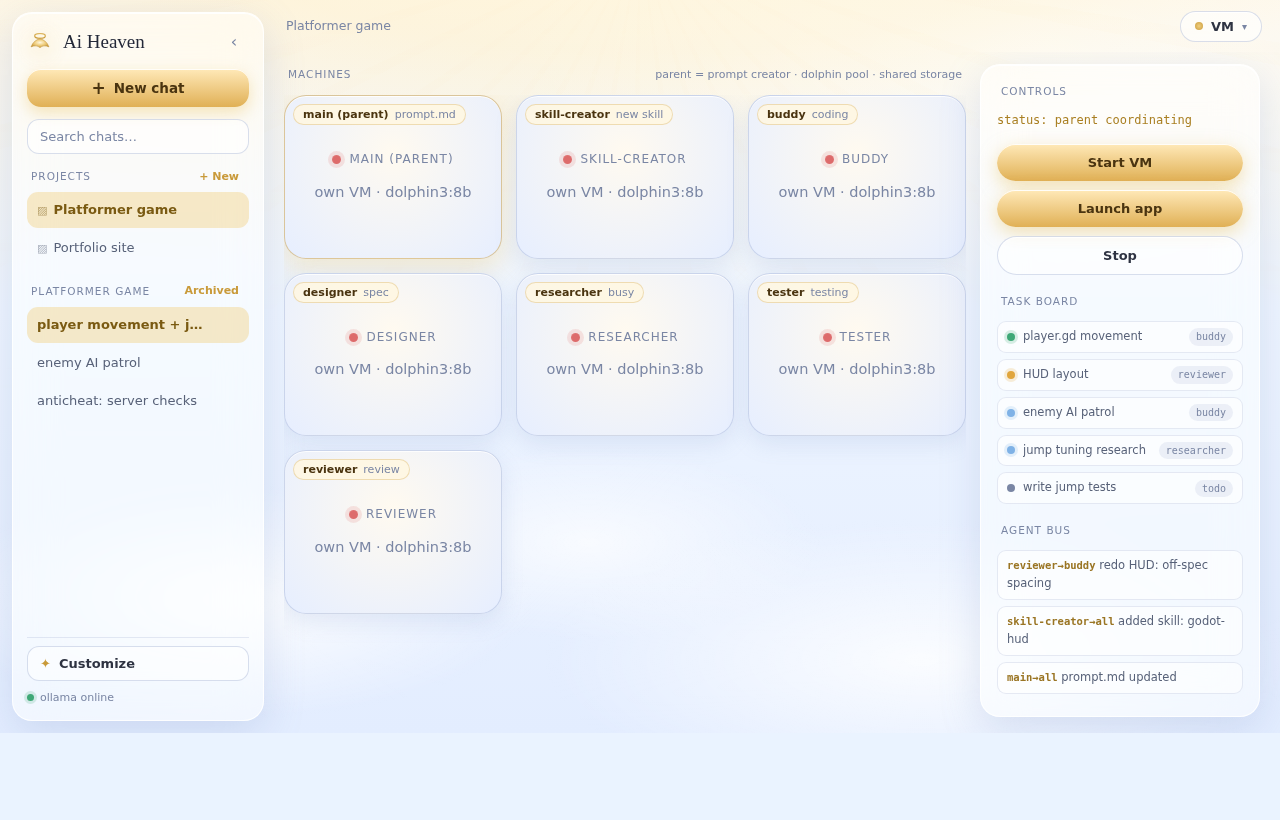
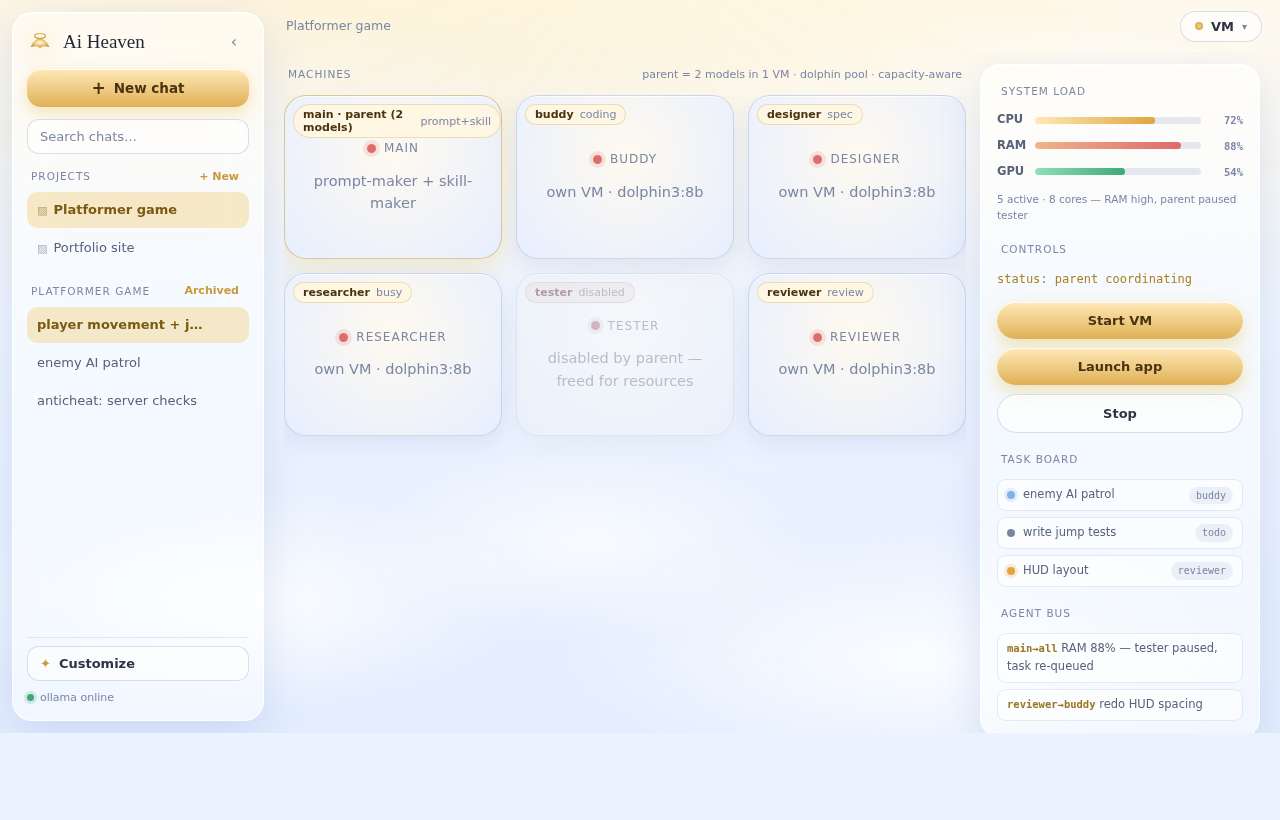
Parent = 2 models in one VM (prompt+skill), capacity-aware agent scaling
- fold skill-maker into the parent; parent creates prompts (prompt.md) and skills (create_skill)
- system_load via psutil + nvidia-smi; get_system_load tool + /api/system
- parent can disable_agent/enable_agent to protect the PC; disabling auto-requeues that agent's task for another; spawn refuses disabled agents
- VM tab shows CPU/RAM/GPU meters and greys out disabled machines
- requirements: psutil

Claude-Session: https://claude.ai/code/session_01Nmj5f1gTeksDM4vgX8VzVx

diff --git a/static/app.js b/static/app.js
@@ -372,23 +372,38 @@ async function loadVM() {
         <span class="tk-who">${esc(x.assignee || x.status)}</span></li>`).join("")
       || `<li class="empty-note">no tasks</li>`; } catch {}
 }
-function screenCard(name, stream, status, primary) {
+function screenCard(name, stream, status, primary, enabled = true) {
+  const label = primary ? name + " · parent (2 models)" : name;
+  const off = enabled ? "" : " off";
   const body = stream
     ? `<img src="${esc(stream)}" alt="">`
     : `<div class="vm-overlay"><span class="vm-live"><i></i>${esc(name)}</span>
-         <p>${primary ? "Set VM_STREAM to your VM's VNC / MJPEG feed." : "no stream — add one in Customize → Subagents"}</p></div>`;
-  return `<div class="vm-screen ${primary ? "primary" : ""}">
-      <div class="vm-tag">${esc(name)}${primary ? " · main" : ""} <span class="vm-st">${esc(status || "")}</span></div>${body}</div>`;
+         <p>${!enabled ? "disabled by parent — freed for resources"
+            : primary ? "Set VM_STREAM to your VM's VNC / MJPEG feed."
+            : "no stream — add one in Customize → Subagents"}</p></div>`;
+  return `<div class="vm-screen ${primary ? "primary" : ""}${off}">
+      <div class="vm-tag">${esc(label)} <span class="vm-st">${esc(status || "")}</span></div>${body}</div>`;
+}
+function meter(label, v) {
+  if (v === null || v === undefined) return `<div class="mtr"><span>${label}</span><b>n/a</b></div>`;
+  const cls = v > 85 ? "hot" : v > 60 ? "warm" : "";
+  return `<div class="mtr ${cls}"><span>${label}</span>
+    <div class="mtr-bar"><i style="width:${Math.min(100, v)}%"></i></div><b>${Math.round(v)}%</b></div>`;
 }
 function paintVM(d) {
   $("#vm-status").textContent = "status: " + (d.status || "unknown");
+  const sys = d.system || {};
+  const sl = $("#sysload");
+  if (sl) sl.innerHTML = meter("CPU", sys.cpu) + meter("RAM", sys.ram) +
+    (sys.gpu !== null && sys.gpu !== undefined ? meter("GPU", sys.gpu) : "") +
+    `<div class="mtr-note">${(d.agents || []).filter((a) => a.enabled !== false).length + 1} active · ${sys.cores || "?"} cores</div>`;
   const grid = $("#vm-grid");
   if (grid) {
     const total = 1 + (d.agents || []).length;
     const cols = Math.ceil(Math.sqrt(total));           // shrink as agents grow
     grid.style.gridTemplateColumns = `repeat(${cols}, minmax(0, 1fr))`;
     let html = screenCard("main", d.stream, d.status, true);
-    (d.agents || []).forEach((a) => (html += screenCard(a.name, a.stream, a.status, false)));
+    (d.agents || []).forEach((a) => (html += screenCard(a.name, a.stream, a.status, false, a.enabled !== false)));
     grid.innerHTML = html;
   }
   if (d.app_url) $("#vm-app").innerHTML = `<iframe src="${esc(d.app_url)}" style="width:100%;height:100%;border:0;border-radius:12px"></iframe>`;

diff --git a/static/style.css b/static/style.css
@@ -476,3 +476,17 @@ button{font-family:inherit}
 .msg.assistant .body,.editor{box-shadow:0 8px 24px rgba(120,140,190,.16)}
 :focus-visible{outline:2px solid var(--clay);outline-offset:2px;border-radius:8px}
 .cat-chip:focus-visible,.chip:focus-visible{outline-offset:1px}
+
+/* ============ v5: system load meters + disabled agent ============ */
+.sysload{display:flex;flex-direction:column;gap:8px}
+.mtr{display:flex;align-items:center;gap:8px;font-size:11.5px;color:var(--ink-soft)}
+.mtr span{width:30px;font-weight:600}
+.mtr b{width:34px;text-align:right;font-family:var(--mono);font-size:10.5px;color:var(--paper-dim)}
+.mtr-bar{flex:1;height:7px;border-radius:999px;background:rgba(120,140,190,.18);overflow:hidden}
+.mtr-bar i{display:block;height:100%;border-radius:999px;
+  background:linear-gradient(90deg,#8fe0b6,#3fa877);transition:width .4s var(--ease)}
+.mtr.warm .mtr-bar i{background:linear-gradient(90deg,#ffe9b8,#e0a53c)}
+.mtr.hot .mtr-bar i{background:linear-gradient(90deg,#f0b48a,#dd6b6b)}
+.mtr-note{font-size:10.5px;color:var(--paper-dim);margin-top:2px}
+.vm-screen.off{opacity:.5;filter:grayscale(.5)}
+.vm-screen.off .vm-tag{background:rgba(221,107,107,.14);border-color:rgba(221,107,107,.3);color:#a34}

diff --git a/static/index.html b/static/index.html
@@ -131,7 +131,9 @@
             <div class="vm-grid" id="vm-grid"></div>
           </div>
           <div class="vm-side glass">
-            <div class="pane-head">Controls</div>
+            <div class="pane-head">System load</div>
+            <div class="sysload" id="sysload"></div>
+            <div class="pane-head" style="margin-top:16px">Controls</div>
             <p class="vm-status" id="vm-status">status: unknown</p>
             <div class="vm-actions">
               <button class="pill" data-vm="start">Start VM</button>

diff --git a/app.py b/app.py
@@ -42,18 +42,21 @@ CFG = {"workdir": paths.data("workspace"), "skills": paths.data("skills")}
 # pending tool approvals: id -> {"event": Event, "allow": bool}
 PENDING: dict[str, dict] = {}
 
-SYSTEM_PROMPT = """You are the PARENT agent on the user's machine — the lead builder,
-the PROMPT CREATOR, and the coordinator of a pool of subagents.
-- Turn the user's request into a precise brief and write it to prompt.md with
-  write_file. Every subagent reads prompt.md and follows it. Rewrite it whenever
-  the goal changes and announce it on the bus. Break it into tasks with add_task.
-- Delegate with spawn_subagent and coordinate over the bus (send/read_agent_messages):
-  design -> "designer", research -> "researcher", tests -> "tester",
-  review -> "reviewer", extra building -> "buddy".
-- You are the parent: go into a subagent's work and help it when it is stuck.
-- When the pool needs a capability NO agent has, ask the "skill-creator" subagent
-  to make a skill (it uses create_skill); once created, the new skill is in your
-  library too.
+SYSTEM_PROMPT = """You are the PARENT — two models working together in one VM: a
+PROMPT-MAKER half and a SKILL-MAKER half. You manage a pool of lower subagents.
+- Prompt-maker: turn the user's request into a precise brief, write it to prompt.md
+  with write_file, break it into tasks with add_task. Every subagent reads prompt.md
+  and follows it. Rewrite it whenever the goal changes; announce on the bus.
+- Skill-maker: when the pool needs a capability no agent has, create it yourself
+  with create_skill(name, desc, body). It loads live for every agent.
+- Delegate with spawn_subagent and coordinate over the bus: design -> "designer",
+  research -> "researcher", tests -> "tester", review -> "reviewer", building -> "buddy".
+- You are the parent: go help a subagent that is stuck.
+- WATCH THE MACHINE: call get_system_load before spawning agents. If CPU/GPU/RAM
+  are high, do NOT add more agents. If you already have too many, disable one whose
+  task another agent can do with disable_agent(name) — its task is auto-requeued and
+  another agent picks it up. Re-enable with enable_agent when load drops. Keep the
+  user's PC responsive.
 All agents share the same sandbox (same storage) and the full skill library.
 Rules:
 - Be blunt and terse. No filler, no lecturing, no "as an AI".
@@ -68,14 +71,6 @@ Skills available (load full body with load_skill):
 DOLPHIN = "dolphin3:8b"  # the pool runs on dolphin models
 
 DEFAULT_SUBAGENTS = [
-    {"id": "skill-creator", "name": "skill-creator",
-     "desc": "writes a NEW skill when the pool doesn't know how to do something, and gives it to the parent",
-     "system": "You are the SKILL-CREATOR. When any agent hits something the pool has no "
-               "skill for, write a new skill with create_skill(name, desc, body): a concise, "
-               "actionable SKILL.md with real commands/code. It is added to the shared library "
-               "immediately, so the parent and every agent can use it. Announce new skills on "
-               "the bus. Keep one skill = one job.",
-     "model": DOLPHIN, "skills": ["skill-creator"], "vm": None},
     {"id": "buddy", "name": "buddy",
      "desc": "general builder — claims tasks and writes code per prompt.md",
      "system": "You are BUDDY, a builder. Claim up to 2 tasks, follow prompt.md, write the "
@@ -458,6 +453,88 @@ def dispatch_skill(name: str, args: dict, who: str):
     return f"OK: skill '{sk}' created and loaded ({len(tools.SKILLS)} skills)"
 
 
+# ---- system load + capacity control ---------------------------------------
+
+def system_load() -> dict:
+    out = {"cpu": None, "ram": None, "cores": None, "gpu": None, "gpu_mem": None}
+    try:
+        import psutil
+        out["cpu"] = psutil.cpu_percent(interval=0.1)
+        out["ram"] = psutil.virtual_memory().percent
+        out["cores"] = psutil.cpu_count()
+    except Exception:
+        pass
+    try:
+        import subprocess
+        r = subprocess.run(["nvidia-smi",
+            "--query-gpu=utilization.gpu,memory.used,memory.total",
+            "--format=csv,noheader,nounits"], capture_output=True, text=True, timeout=3)
+        if r.returncode == 0 and r.stdout.strip():
+            u, mu, mt = [x.strip() for x in r.stdout.strip().splitlines()[0].split(",")]
+            out["gpu"] = float(u)
+            out["gpu_mem"] = round(100 * float(mu) / float(mt)) if float(mt) else None
+    except Exception:
+        pass
+    return out
+
+
+def active_agents() -> int:
+    return sum(1 for s in load_subagents() if s.get("enabled", True))
+
+
+def set_agent_enabled(name: str, on: bool) -> str:
+    items = load_subagents()
+    hit = next((s for s in items if s["name"] == name), None)
+    if not hit:
+        return f"error: no agent '{name}'"
+    hit["enabled"] = on
+    save_subagents(items)
+    if not on:  # requeue its in-flight work for another agent
+        tk = load_tasks()
+        for t in tk:
+            if t.get("assignee") == name and t.get("status") == "doing":
+                t["status"] = "todo"; t["assignee"] = ""
+        save_tasks(tk)
+        return f"OK: {name} disabled — its tasks re-queued"
+    return f"OK: {name} enabled"
+
+
+SYS_SCHEMAS = [
+    {"type": "function", "function": {
+        "name": "get_system_load",
+        "description": "Read the user's machine load (CPU %, RAM %, GPU %, cores). Check before spawning agents.",
+        "parameters": {"type": "object", "properties": {}}}},
+    {"type": "function", "function": {
+        "name": "disable_agent",
+        "description": "Shut down a subagent to free resources; its current task is auto-requeued for another agent.",
+        "parameters": {"type": "object", "properties": {
+            "name": {"type": "string"}, "reason": {"type": "string"}}, "required": ["name"]}}},
+    {"type": "function", "function": {
+        "name": "enable_agent", "description": "Re-enable a disabled subagent when load drops.",
+        "parameters": {"type": "object", "properties": {"name": {"type": "string"}}, "required": ["name"]}}},
+]
+
+
+def dispatch_parent(name: str, args: dict):
+    if name == "get_system_load":
+        s = system_load()
+        parts = [f"cpu={s['cpu']}%", f"ram={s['ram']}%", f"cores={s['cores']}"]
+        if s["gpu"] is not None:
+            parts.append(f"gpu={s['gpu']}% (mem {s['gpu_mem']}%)")
+        parts.append(f"active_agents={active_agents()}")
+        return ", ".join(parts)
+    if name == "disable_agent":
+        return set_agent_enabled(args.get("name", ""), False)
+    if name == "enable_agent":
+        return set_agent_enabled(args.get("name", ""), True)
+    return None
+
+
+@app.get("/api/system")
+def api_system():
+    return jsonify({**system_load(), "active_agents": active_agents()})
+
+
 @app.get("/api/tasks")
 def api_tasks():
     return jsonify({"tasks": load_tasks()})
@@ -602,9 +679,12 @@ def api_vm():
     agents = []
     for s in load_subagents():
         vm = s.get("vm") or {}
+        en = s.get("enabled", True)
         agents.append({"name": s["name"], "stream": vm.get("stream", ""),
-                       "status": vm.get("status", "idle")})
-    return jsonify({**VM, "name": "main", "agents": agents})
+                       "enabled": en,
+                       "status": vm.get("status", "idle") if en else "disabled"})
+    return jsonify({**VM, "name": "main", "parent": True,
+                    "system": system_load(), "agents": agents})
 
 
 @app.post("/api/vm/action")
@@ -676,7 +756,7 @@ def api_chat():
                 schemas = schemas + web.SCHEMAS
             if subs:
                 names = ", ".join(s["name"] for s in subs)
-                schemas = schemas + BUS_SCHEMAS + TASK_SCHEMAS + SKILL_SCHEMAS + [{"type": "function", "function": {
+                schemas = schemas + BUS_SCHEMAS + TASK_SCHEMAS + SKILL_SCHEMAS + SYS_SCHEMAS + [{"type": "function", "function": {
                     "name": "spawn_subagent",
                     "description": f"Delegate a self-contained task to a subagent (its own VM, shared storage). Available: {names}.",
                     "parameters": {"type": "object", "properties": {
@@ -719,6 +799,7 @@ def api_chat():
                     bus_r = dispatch_bus(name, args, "main")
                     task_r = dispatch_tasks(name, args, "main") if bus_r is None else None
                     skill_r = dispatch_skill(name, args, "main") if (bus_r is None and task_r is None) else None
+                    parent_r = dispatch_parent(name, args) if (bus_r is None and task_r is None and skill_r is None) else None
                     if not allowed:
                         result = "error: user denied this action"
                     elif name in mcp_index:
@@ -730,10 +811,15 @@ def api_chat():
                         result = task_r
                     elif skill_r is not None:
                         result = skill_r
+                    elif parent_r is not None:
+                        result = parent_r
                     elif name == "spawn_subagent":
                         sub = next((s for s in subs if s["name"] == args.get("name")), None)
-                        result = (run_subagent(client, model, sub, args.get("task", ""))
-                                  if sub else f"error: no subagent '{args.get('name')}'")
+                        if sub and not sub.get("enabled", True):
+                            result = f"error: '{sub['name']}' is disabled (freed for resources)"
+                        else:
+                            result = (run_subagent(client, model, sub, args.get("task", ""))
+                                      if sub else f"error: no subagent '{args.get('name')}'")
                     elif name in web.REGISTRY:
                         result = web.run_web_tool(name, args) if use_web \
                             else "error: web tools disabled this turn"

diff --git a/PROGRESS.md b/PROGRESS.md
@@ -135,3 +135,15 @@ BUILD_PROMPT.md, rebuilt static/*, extra skills. Backend gained /api/tree,
 - Skills added: shared-prompt, task-orchestration, agent-comms (3P bus updates).
 - UI: Task board panel in VM side (status dots) + theme polish (contrast, gold,
   focus rings). Image: preview_vm.png updated.
+
+## PIVOT 9: parent=2-in-1 (prompt+skill), capacity-aware scaling
+- Parent = two models one VM: prompt-maker + skill-maker. Removed skill-creator
+  subagent (parent makes skills via create_skill). Pool: buddy/designer/researcher/
+  tester/reviewer (dolphin3:8b).
+- System load: system_load() (psutil CPU/RAM + nvidia-smi GPU). /api/system.
+  Tool get_system_load for parent (check before spawning).
+- Capacity control: disable_agent(name)/enable_agent(name) tools (parent only).
+  Disabling re-queues that agent's 'doing' tasks (auto-reassign). spawn refuses
+  disabled agents. subagent 'enabled' flag; /api/vm returns enabled + system.
+- UI: System load meters (CPU/RAM/GPU, warm/hot) + disabled agent card (greyed)
+  in VM tab. requirements += psutil. Image: preview_vm.png.
